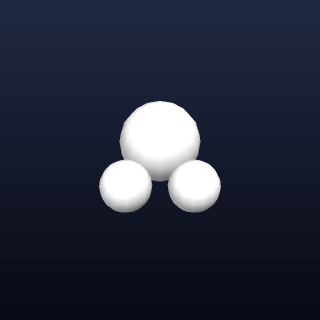
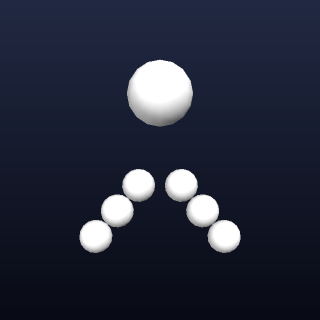
Give the pitch tip in LANGUAGE.md its own example and picture (#135)
## What changed
The "Positive pitch tips the nose down" tip in section 13 referred to
"the neck" in an example that wasn't there. It now has its own example:
a body with one ball pitched -30 (white, above) and one pitched 30
(grey, below), drawn from the side by docs/pictures.mjs.

## How tested
`npm run check` passes (814 tests); picture checked by eye.

## Release
Nothing to release.

🤖 Generated with [Claude Code](https://claude.com/claude-code)

---------

Changed region(s): [[0.25, 0.1875, 0.75, 0.8125]]

diff --git a/docs/LANGUAGE.md b/docs/LANGUAGE.md
@@ -696,8 +696,29 @@ lay // a round ball
 ![A flat ball and, two steps on, a round ball](images/surprise-transform.png)
 
 **Positive pitch tips the nose down.** `pitch 30` turns the heading towards the turtle's down, and
-`pitch -30` towards its up ([11.3](#113-turning)). In the example, the neck leans up and forward
-from the body because its pitch is negative.
+`pitch -30` towards its up ([11.3](#113-turning)). In the example, seen from the side, the white
+ball sits above the body because its pitch is negative, and the grey one sits below it because its
+pitch is positive:
+
+<!-- picture: surprise-pitch view=right -->
+
+```
+lay { grow 2 } // the body
+branch {
+  pitch -30 // the heading turns up
+  forward 2
+  colour white
+  lay
+}
+branch {
+  pitch 30 // the heading turns down
+  forward 2
+  colour grey
+  lay
+}
+```
+
+![Seen from the side: a big body with a white ball up and in front of it, and a grey ball down and in front of it](images/surprise-pitch.png)
 
 **Turns are mirrored on the mirrored side.** Inside `symmetric x { }`, the second run is mirrored,
 so each `yaw` and `roll` there turns the other way ([11.3](#113-turning)). That's what makes the two
@@ -705,27 +726,31 @@ halves match: write one side, and the other side is its reflection. In the examp
 `yaw 40` turns both ears outwards, each to its own side. Use `side` only when the two runs really
 should differ, not to undo the mirror.
 
-<!-- picture: surprise-mirror view=0,60 -->
+<!-- picture: surprise-mirror view=top -->
 
 ```
 lay { grow 2 } // the body
-pitch -40 // the neck leans up
 forward 2
 symmetric x {
   branch {
     yaw 40 // each ear turns outwards
     forward 1
     lay
+    forward 1
+    lay
+    forward 1
+    lay
   }
 }
 ```
 
-![Seen from above and in front: a body, and in front of it two ears turned outwards, one to each side](images/surprise-mirror.png)
+![Seen from above: a body, and two rows of three balls leaving it in a V, each row turned outwards to its own side](images/surprise-mirror.png)
 
 **A part leaves the turtle where it ended.** A part call doesn't restore the turtle
 ([section 10](#10-parts-and-functions)), so everything after it starts where the part finished.
 Put the call inside a `branch` when it should start from the same place as what comes next. In
-the example, the `branch` keeps the turtle where it was, so `tail` starts from the body:
+the example, the `branch` keeps the turtle where it was, so the blue `tail` starts from the white
+body, not from the orange leg:
 
 <!-- picture: surprise-part view=right -->
 
@@ -733,14 +758,17 @@ the example, the `branch` keeps the turtle where it was, so `tail` starts from t
 part leg {
   pitch 60
   forward 2
+  colour orange
   lay
 }
 
 part tail {
   back 2
+  colour blue
   lay
 }
 
+colour white
 lay // the body
 branch {
   leg
@@ -748,7 +776,7 @@ branch {
 tail
 ```
 
-![Seen from the side: a body, a leg reaching down and forward from it, and a tail behind it](images/surprise-part.png)
+![Seen from the side: a white body, an orange leg reaching down and forward from it, and a blue tail behind it](images/surprise-part.png)
 
 ## 12. Shapes
 
